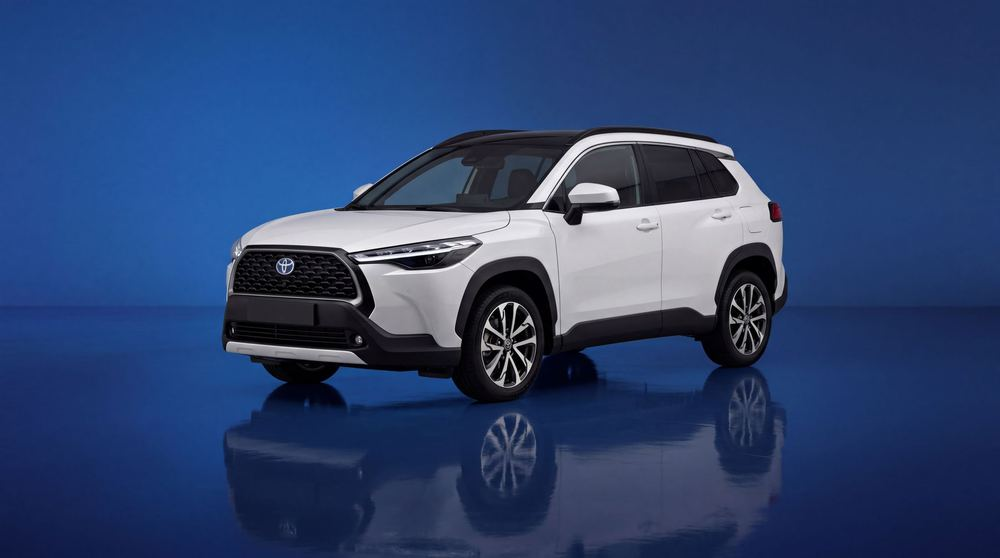
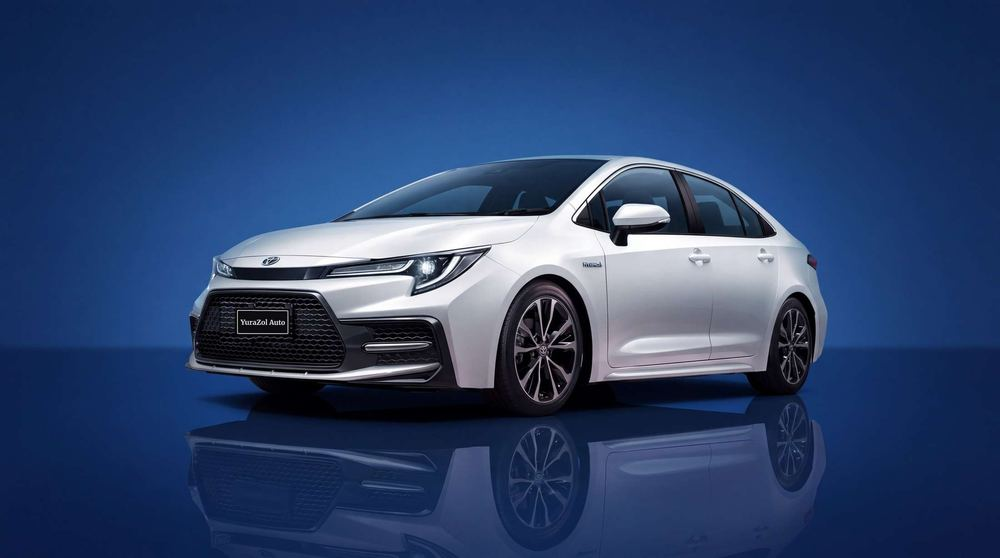
Плитка «Гибриды»: фото Toyota Levin с табличкой YuraZol Auto вместо Corolla Cross, текст «Гибриды Toyota и Honda» («Авто» 20.10)

diff --git a/docs/index.html b/docs/index.html
@@ -409,7 +409,7 @@ section.sec{padding:90px 0 10px}
       <p class="rv">Электромобили, гибриды и&nbsp;бензиновые машины до&nbsp;160&nbsp;л.с.&nbsp;— с&nbsp;ценой под&nbsp;ключ. Полный каталог&nbsp;— в&nbsp;нашем канале.</p></div>
     <div class="cat">
       <div class="tile rv"><picture><source srcset="assets/img/sec0.webp" type="image/webp"><img src="assets/img/sec0.jpg" alt="Электромобили" loading="lazy" width="1000" height="558"></picture><div><b>Электро</b><span>Утильсбор 3&nbsp;400&nbsp;₽, для&nbsp;<span class="nw">б/у</span> старше 3&nbsp;лет&nbsp;— 5&nbsp;200&nbsp;₽. У&nbsp;автомобилей с&nbsp;мотором мощнее 58,84&nbsp;кВт он&nbsp;около 1&nbsp;млн ₽ и&nbsp;выше.</span></div></div>
-      <div class="tile rv"><picture><source srcset="assets/img/sec1.webp" type="image/webp"><img src="assets/img/sec1.jpg" alt="Гибриды" loading="lazy" width="1000" height="558"></picture><div><b>Гибриды</b><span>С&nbsp;пробегом, возраст <span class="nw">3–5</span>&nbsp;лет. Гибриды Toyota с&nbsp;льготным утильсбором: экономия топлива без&nbsp;зарядки от&nbsp;розетки.</span></div></div>
+      <div class="tile rv"><picture><source srcset="assets/img/sec1.webp" type="image/webp"><img src="assets/img/sec1.jpg" alt="Гибриды" loading="lazy" width="1000" height="558"></picture><div><b>Гибриды</b><span>С&nbsp;пробегом, возраст <span class="nw">3–5</span>&nbsp;лет. Гибриды Toyota и&nbsp;Honda с&nbsp;льготным утильсбором: экономия топлива без&nbsp;зарядки от&nbsp;розетки.</span></div></div>
       <div class="tile rv"><picture><source srcset="assets/img/sec2.webp" type="image/webp"><img src="assets/img/sec2.jpg" alt="Монопривод" loading="lazy" width="1000" height="558"></picture><div><b>Монопривод</b><span>С&nbsp;пробегом, возраст <span class="nw">3–5</span>&nbsp;лет. Проверенные модели до&nbsp;160&nbsp;л.с.&nbsp;— утильсбор 5&nbsp;200&nbsp;₽ вместо сотен тысяч.</span></div></div>
       <div class="tile rv"><picture><source srcset="assets/img/sec3.webp" type="image/webp"><img src="assets/img/sec3.jpg" alt="Полный привод" loading="lazy" width="1000" height="558"></picture><div><b>Полный привод</b><span>С&nbsp;пробегом, возраст <span class="nw">3–5</span>&nbsp;лет. Полный привод до&nbsp;160&nbsp;л.с.&nbsp;— тоже с&nbsp;льготным утильсбором 5&nbsp;200&nbsp;₽.</span></div></div>
     </div>

diff --git a/src/index.html b/src/index.html
@@ -409,7 +409,7 @@ section.sec{padding:90px 0 10px}
       <p class="rv">Электромобили, гибриды и бензиновые машины до 160 л.с. — с ценой под ключ. Полный каталог — в нашем канале.</p></div>
     <div class="cat">
       <div class="tile rv"><picture><source srcset="assets/img/sec0.webp" type="image/webp"><img src="assets/img/sec0.jpg" alt="Электромобили" loading="lazy" width="1000" height="558"></picture><div><b>Электро</b><span>Утильсбор 3 400 ₽, для б/у старше 3 лет — 5 200 ₽. У автомобилей с мотором мощнее 58,84 кВт он около 1 млн ₽ и выше.</span></div></div>
-      <div class="tile rv"><picture><source srcset="assets/img/sec1.webp" type="image/webp"><img src="assets/img/sec1.jpg" alt="Гибриды" loading="lazy" width="1000" height="558"></picture><div><b>Гибриды</b><span>С пробегом, возраст 3–5 лет. Гибриды Toyota с льготным утильсбором: экономия топлива без зарядки от розетки.</span></div></div>
+      <div class="tile rv"><picture><source srcset="assets/img/sec1.webp" type="image/webp"><img src="assets/img/sec1.jpg" alt="Гибриды" loading="lazy" width="1000" height="558"></picture><div><b>Гибриды</b><span>С пробегом, возраст 3–5 лет. Гибриды Toyota и Honda с льготным утильсбором: экономия топлива без зарядки от розетки.</span></div></div>
       <div class="tile rv"><picture><source srcset="assets/img/sec2.webp" type="image/webp"><img src="assets/img/sec2.jpg" alt="Монопривод" loading="lazy" width="1000" height="558"></picture><div><b>Монопривод</b><span>С пробегом, возраст 3–5 лет. Проверенные модели до 160 л.с. — утильсбор 5 200 ₽ вместо сотен тысяч.</span></div></div>
       <div class="tile rv"><picture><source srcset="assets/img/sec3.webp" type="image/webp"><img src="assets/img/sec3.jpg" alt="Полный привод" loading="lazy" width="1000" height="558"></picture><div><b>Полный привод</b><span>С пробегом, возраст 3–5 лет. Полный привод до 160 л.с. — тоже с льготным утильсбором 5 200 ₽.</span></div></div>
     </div>

diff --git a/prep_assets.py b/prep_assets.py
@@ -24,8 +24,8 @@ og = ImageOps.fit(hall, (1200, 630), Image.LANCZOS, centering=(0.5, 0.62))
 og.convert("RGB").save(OUT / "og.jpg", quality=84, optimize=True)
 
 # разделы каталога
-for i in range(4):
-    save(Image.open(AC / f"catalog/cars/hero_sec{i}.jpg"), f"sec{i}", 1000, 78)
+for i in range(4):   # «Гибриды» — Toyota Levin с табличкой YuraZol Auto из cars_plate: в cars/ на нём ВОСТОК-АВТО («Авто» 20.10.2026)
+    save(Image.open(AC / f"catalog/{'cars_plate' if i == 1 else 'cars'}/hero_sec{i}.jpg"), f"sec{i}", 1000, 78)
 
 # примеры выданных автомобилей
 for k in ("xrv", "q05", "yaris", "coolray"):
